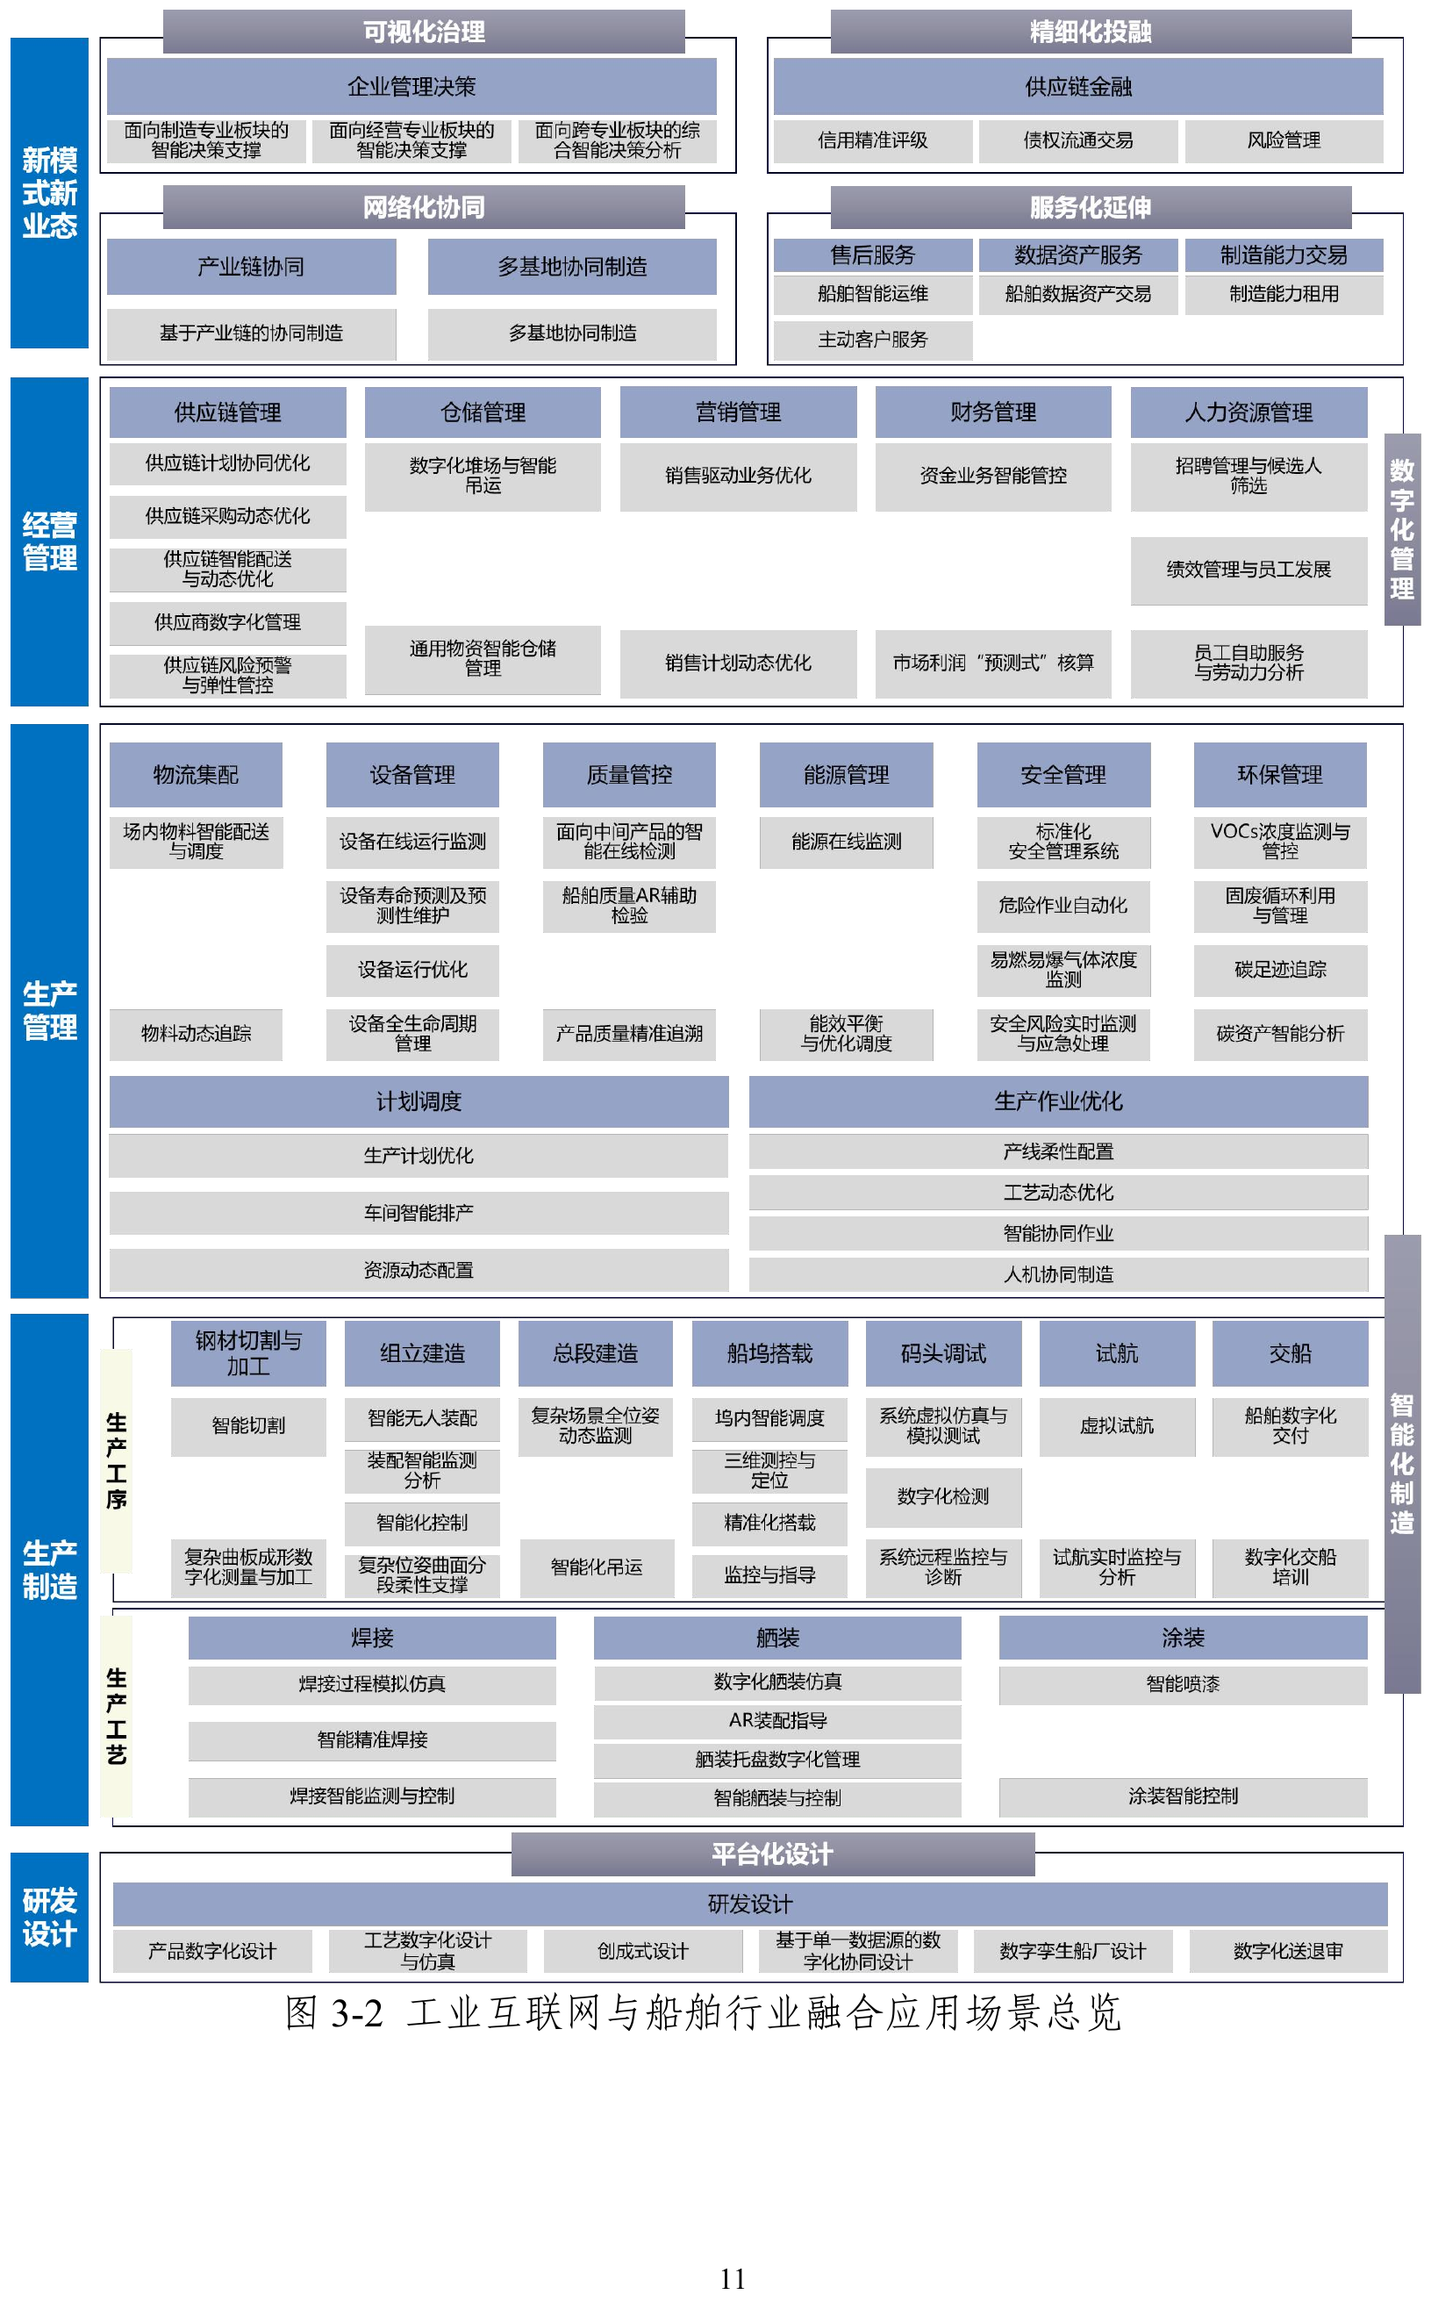
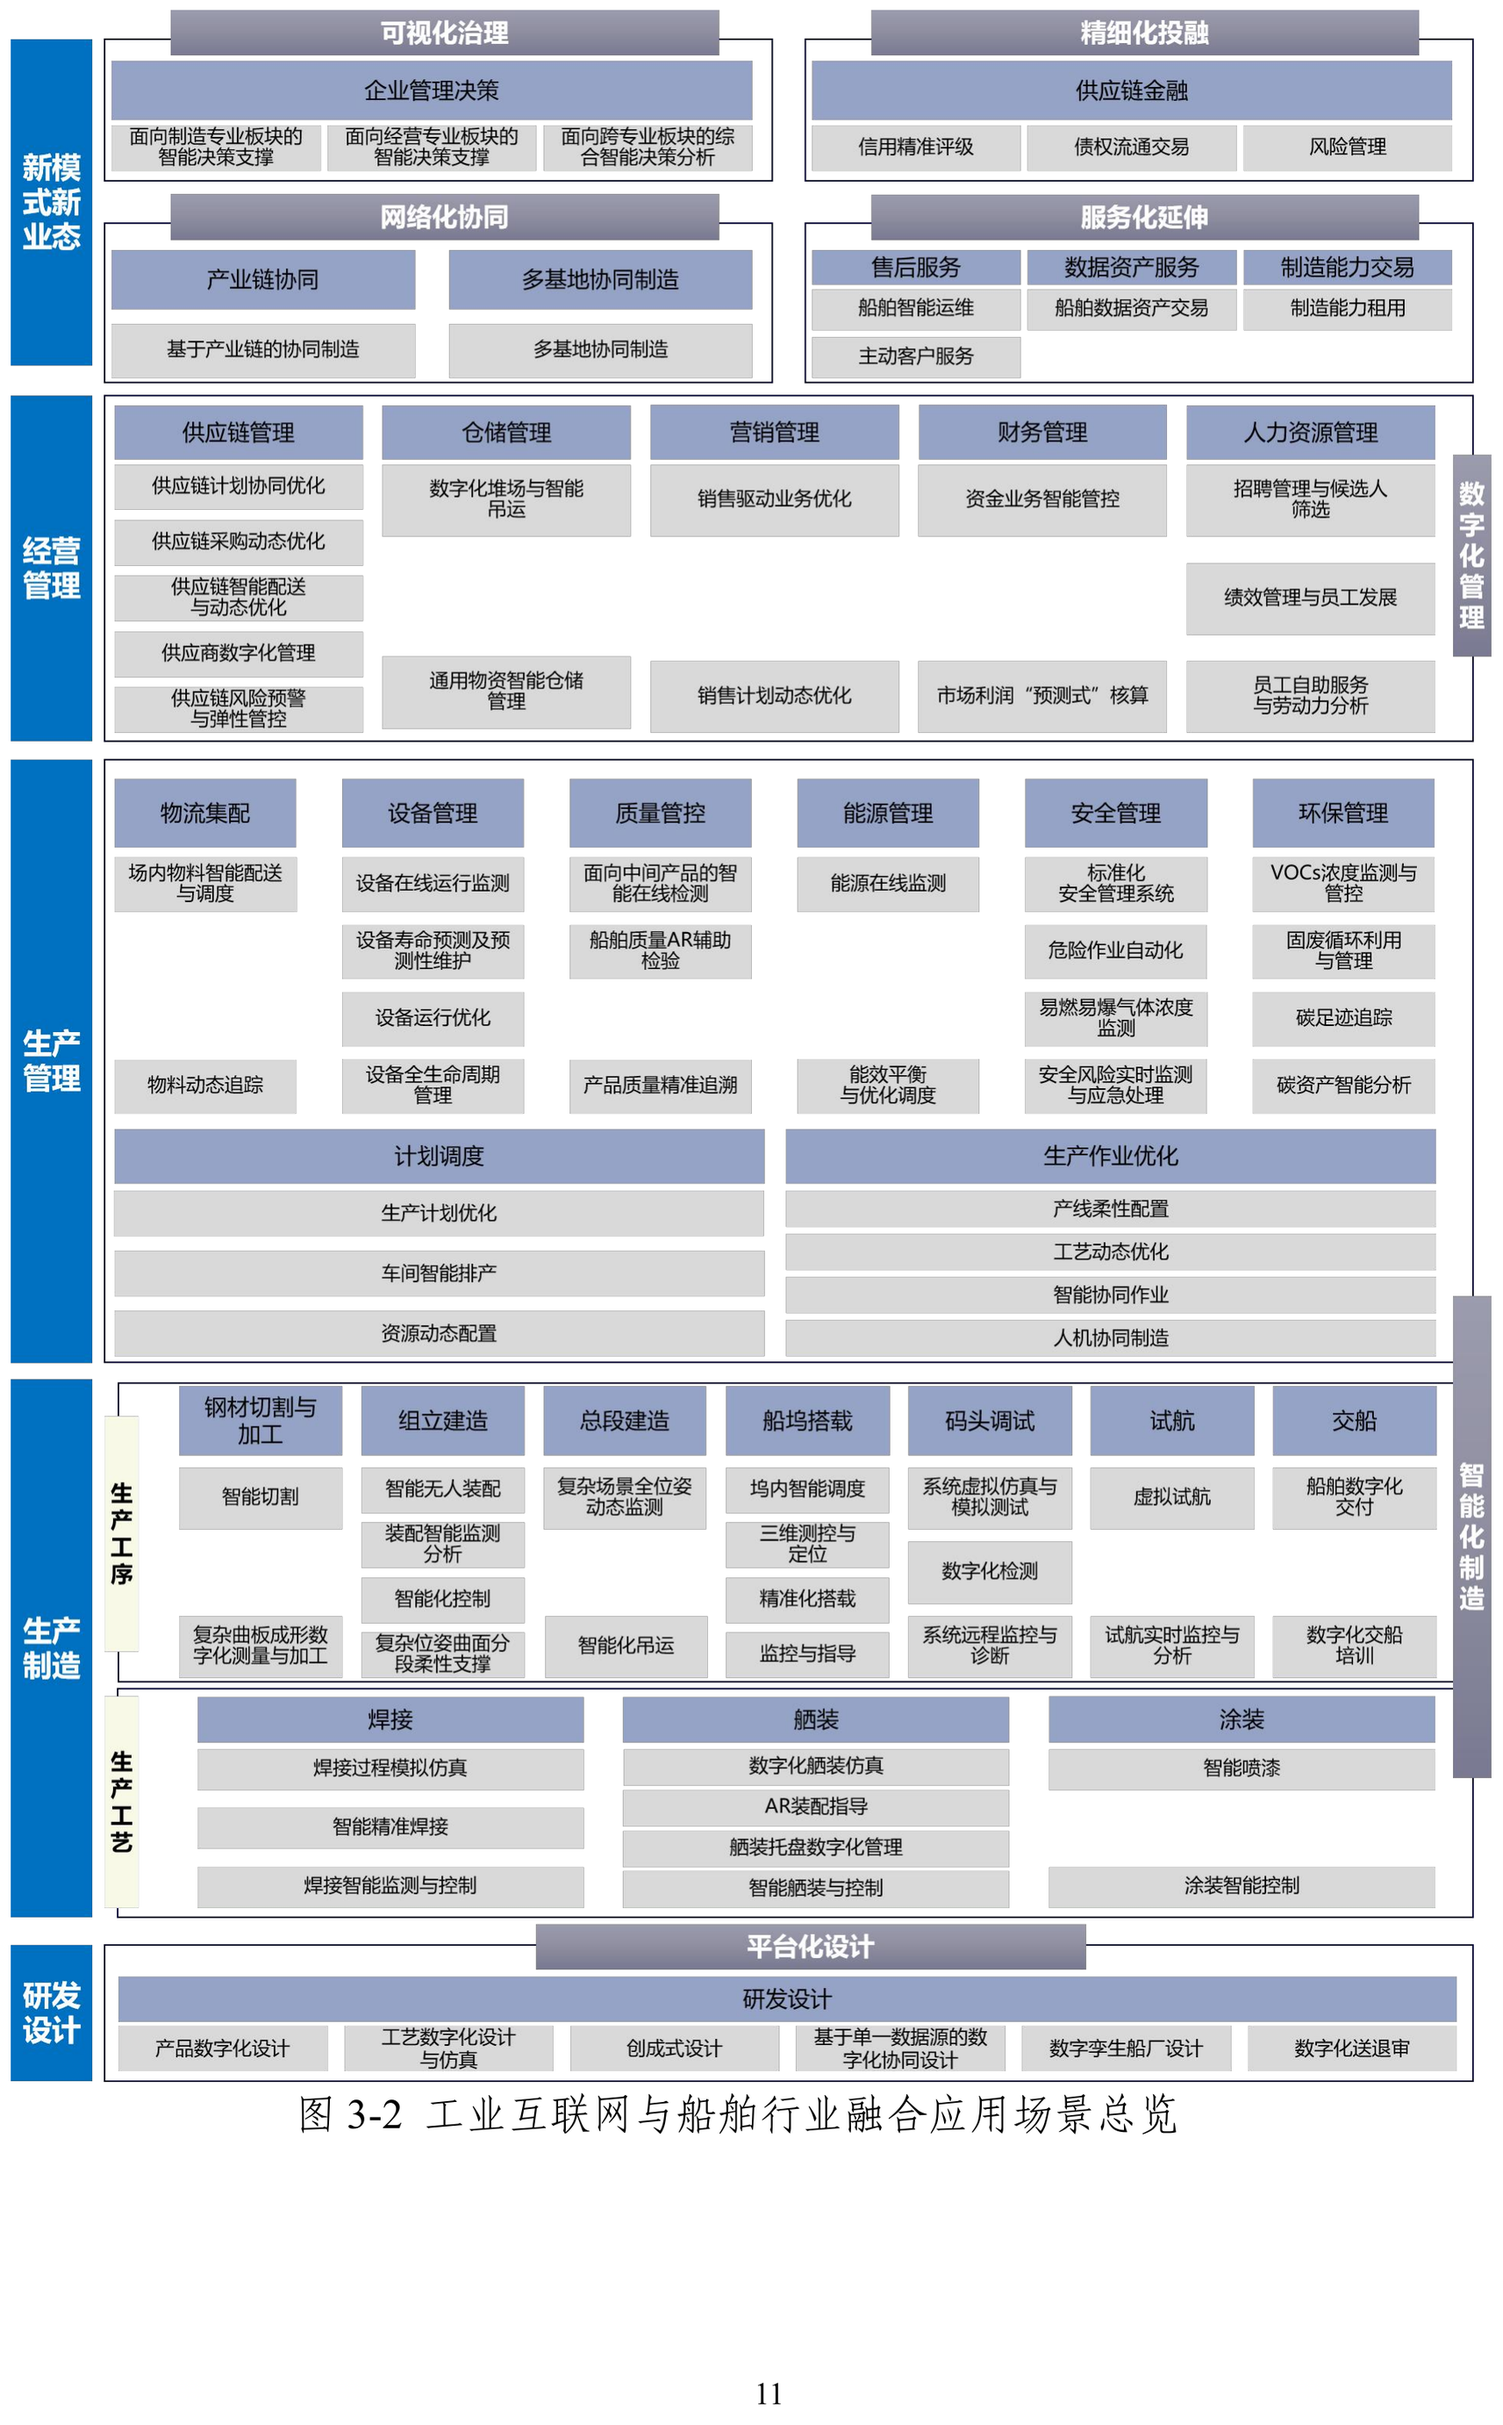
中册抽图脚本：输出缩到 1713 px（LANCZOS）+ oxipng -o4，锁定 Pillow 12.3.0 / pyoxipng 9.1.1；船舶-17 按原生 328 dpi 重抽；新增逐字节复现测试

diff --git a/scripts/extract-middle-figures.py b/scripts/extract-middle-figures.py
@@ -12,7 +12,23 @@ import hashlib
 import json
 import math
 import struct
+import io
 import subprocess
+from importlib.metadata import version
+
+# Output pipeline is pinned so assets reproduce byte for byte (PR #83 hashes).
+# Install: python3 -m pip install -r scripts/requirements-figures.txt
+PINNED = {'pillow': '12.3.0', 'pyoxipng': '9.1.1'}
+MAX_WIDTH_PX = 1713  # 14.5 cm text width at 300 ppi
+OUTPUT_DPI = 300
+OXIPNG_LEVEL = 4
+
+
+def check_pins():
+    found = {name: version(name) for name in PINNED}
+    if found != PINNED:
+        raise RuntimeError(f'Figure pipeline needs {PINNED}, found {found}; '
+                           'see scripts/requirements-figures.txt')
 
 ROOT = Path(__file__).resolve().parents[1]
 TARGET = ROOT / '中册-行业解决方案/assets'
@@ -23,12 +39,29 @@ def sha256(path):
     return hashlib.sha256(path.read_bytes()).hexdigest()
 
 
-def render_page(pdf, page, output, crop=None):
-    command = ['pdftoppm', '-f', str(page), '-l', str(page),
-               '-scale-to', '3200', '-png', '-singlefile']
+def finalize_png(path):
+    """Downscale to MAX_WIDTH_PX with LANCZOS (never upscale), tag 300 dpi, oxipng -o4."""
+    from PIL import Image
+    import oxipng
+    with Image.open(path) as image:
+        image = image.convert('RGB')
+        width, height = image.size
+        if width > MAX_WIDTH_PX:
+            image = image.resize((MAX_WIDTH_PX, round(height * MAX_WIDTH_PX / width)),
+                                 Image.LANCZOS)
+        buffer = io.BytesIO()
+        image.save(buffer, 'PNG', dpi=(OUTPUT_DPI, OUTPUT_DPI))
+    path.write_bytes(oxipng.optimize_from_memory(
+        buffer.getvalue(), level=OXIPNG_LEVEL, strip=oxipng.StripChunks.safe()))
+
+
+def render_page(pdf, page, output, crop=None, render_dpi=None):
+    """Render with pdftoppm; default long side 3200 px, or render_dpi for native-resolution pages."""
+    command = ['pdftoppm', '-f', str(page), '-l', str(page), '-png', '-singlefile']
+    command += ['-r', str(render_dpi)] if render_dpi else ['-scale-to', '3200']
     if crop:
         width, height = crop['page_size_points']
-        scale = 3200 / max(width, height)
+        scale = render_dpi / 72 if render_dpi else 3200 / max(width, height)
         left, top, right, bottom = crop['pdf_bbox_points']
         x, y = math.floor(left * scale), math.floor(top * scale)
         right, bottom = math.ceil(right * scale), math.ceil(bottom * scale)
@@ -36,6 +69,7 @@ def render_page(pdf, page, output, crop=None):
         crop['pixel_bbox'] = [x, y, right, bottom]
     command += [str(pdf), str(output.with_suffix(''))]
     subprocess.run(command, check=True, capture_output=True)
+    finalize_png(output)
 
 
 def main():
@@ -46,6 +80,7 @@ def main():
                         help='Reapply reviewed element bounds to existing cropped figures')
     parser.add_argument('--force', action='store_true', help='Rerender all selected figures')
     args = parser.parse_args()
+    check_pins()
     rules = json.loads(RULES.read_text())
     tasks = [r for r in rules['figures']
              if (not args.sources or r['source_id'] in args.sources)
@@ -85,12 +120,14 @@ def main():
         }
         crop = dict(analysis) if bounds else None
         old_crop = existing.get('crop', {}).get('pdf_bbox_points')
-        changed = old_crop != bounds
+        changed = (old_crop != bounds
+                   or existing.get('render_dpi') != rule.get('render_dpi'))
         before_hash = sha256(output) if output.is_file() else None
         if (args.force or not output.is_file() or changed
                 or before_hash != existing.get('asset_sha256')
                 or args.trim_margins and bounds):
-            render_page(ROOT/source['local_pdf'], rule['pdf_page'], output, crop)
+            render_page(ROOT/source['local_pdf'], rule['pdf_page'], output, crop,
+                        rule.get('render_dpi'))
         elif crop and existing.get('crop', {}).get('pixel_bbox'):
             crop['pixel_bbox'] = existing['crop']['pixel_bbox']
         result = {**existing,
@@ -103,7 +140,7 @@ def main():
             'page_number_handling': rule['page_number_handling'],
             'use': '图示摘引；仅裁页面外围，保留图内文字、连线、图题、来源、脚注及水印；正文注明来源页码，不计入本书原创内容的 CC BY-NC-SA 4.0 许可',
         }
-        for key in ('printed_page', 'figure_titles'):
+        for key in ('printed_page', 'figure_titles', 'render_dpi'):
             if key in rule:
                 result[key] = rule[key]
         if crop:
@@ -120,9 +157,10 @@ def main():
     combined = dict(previous)
     combined.update({r['asset']: r for r in rendered})
     manifest.write_text(json.dumps({**prior, 'title': '中册行业图示摘引来源',
-        'updated_on': rules['reviewed_on'],
+        'updated_on': max(prior.get('updated_on', ''), rules['reviewed_on']),
         'crop_rules': '../../scripts/data/middle/图示裁切规则.json',
-        'figures': sorted(combined.values(), key=lambda r: (r['source_id'], r['pdf_page']))
+        # Keep manifest order; redraw entries have no source_id/pdf_page, so do not re-sort.
+        'figures': list(combined.values())
     }, ensure_ascii=False, indent=2) + '\n')
     print(json.dumps({'rendered_or_verified': len(rendered),
         'cropped': sum(bool(r.get('crop')) for r in rendered),

diff --git a/scripts/test_extract_middle_figures.py b/scripts/test_extract_middle_figures.py
@@ -1,0 +1,73 @@
+#!/usr/bin/env python3
+"""Reproducibility test for scripts/extract-middle-figures.py.
+
+Re-renders the 27 figures recompressed in PR #83 plus B05-船舶-17 into a temp
+dir and checks each PNG's sha256 against 中册-行业解决方案/assets/sources.json.
+Source PDFs are read from each source's local_pdf (gitignored 资料库/ dir);
+the test skips cleanly when a PDF, pdftoppm or the pinned packages are missing.
+Run: python3 scripts/test_extract_middle_figures.py
+"""
+from pathlib import Path
+import hashlib
+import importlib.util
+import json
+import shutil
+import tempfile
+import unittest
+
+ROOT = Path(__file__).resolve().parents[1]
+spec = importlib.util.spec_from_file_location(
+    'extract_middle_figures', ROOT / 'scripts/extract-middle-figures.py')
+extract = importlib.util.module_from_spec(spec)
+spec.loader.exec_module(extract)
+
+# PR #83 (merge 2af0bc8): 27 figures downscaled to 1713 px + oxipng -o4.
+PR83 = ['A11-制糖-41', 'A11-医疗装备-32', 'A11-医疗装备-33', 'A11-医疗装备-34',
+        'A11-医疗装备-35', 'A11-印制板-53', 'A11-印制板-54', 'A11-家电-37',
+        'A11-工程机械-22', 'A11-工程机械-23', 'A11-新能源汽车-25',
+        'A11-新能源汽车-26', 'A11-新能源汽车-27', 'A11-智能移动终端-56',
+        'A11-机器人-29', 'A11-机器人-30', 'A11-白酒-44', 'A11-石化-16',
+        'A11-石化-17', 'A11-石化-18', 'A11-美妆日化-46', 'A11-钢铁-13',
+        'A11-钢铁-14', 'A11-锂电池-49', 'A11-锂电池-50', 'A11-锂电池-51',
+        'B01-钢铁-43']
+CASES = [name + '.png' for name in PR83] + ['B05-船舶-17.png']
+
+
+class ReproduceFigures(unittest.TestCase):
+    def test_byte_identical(self):
+        try:
+            extract.check_pins()
+        except Exception as error:  # pins missing or different
+            self.skipTest(str(error))
+        if not shutil.which('pdftoppm'):
+            self.skipTest('pdftoppm not installed')
+        rules = json.loads(extract.RULES.read_text())
+        manifest = json.loads((extract.TARGET / 'sources.json').read_text())
+        expected = {r['asset']: r['asset_sha256'] for r in manifest['figures']}
+        by_asset = {r['asset']: r for r in rules['figures']}
+        self.assertEqual(len(CASES), 28)
+        with tempfile.TemporaryDirectory() as tmp:
+            for asset in CASES:
+                rule = by_asset[asset]
+                source = rules['sources'][rule['source_id']]
+                pdf = ROOT / source['local_pdf']
+                if not pdf.is_file():
+                    self.skipTest(f'source PDF not available: {pdf}')
+                if extract.sha256(pdf) != source['sha256']:
+                    self.skipTest(f'source PDF differs from reviewed version: {pdf}')
+                bounds = rule['crop_pdf_bbox']
+                crop = ({'page_size_points': rule['page_size_points'],
+                         'pdf_bbox_points': bounds} if bounds else None)
+                output = Path(tmp) / asset
+                extract.render_page(pdf, rule['pdf_page'], output, crop,
+                                    rule.get('render_dpi'))
+                with self.subTest(asset=asset):
+                    self.assertEqual(hashlib.sha256(output.read_bytes()).hexdigest(),
+                                     expected[asset])
+                    self.assertLessEqual(
+                        int.from_bytes(output.read_bytes()[16:20], 'big'),
+                        extract.MAX_WIDTH_PX)
+
+
+if __name__ == '__main__':
+    unittest.main(verbosity=2)
